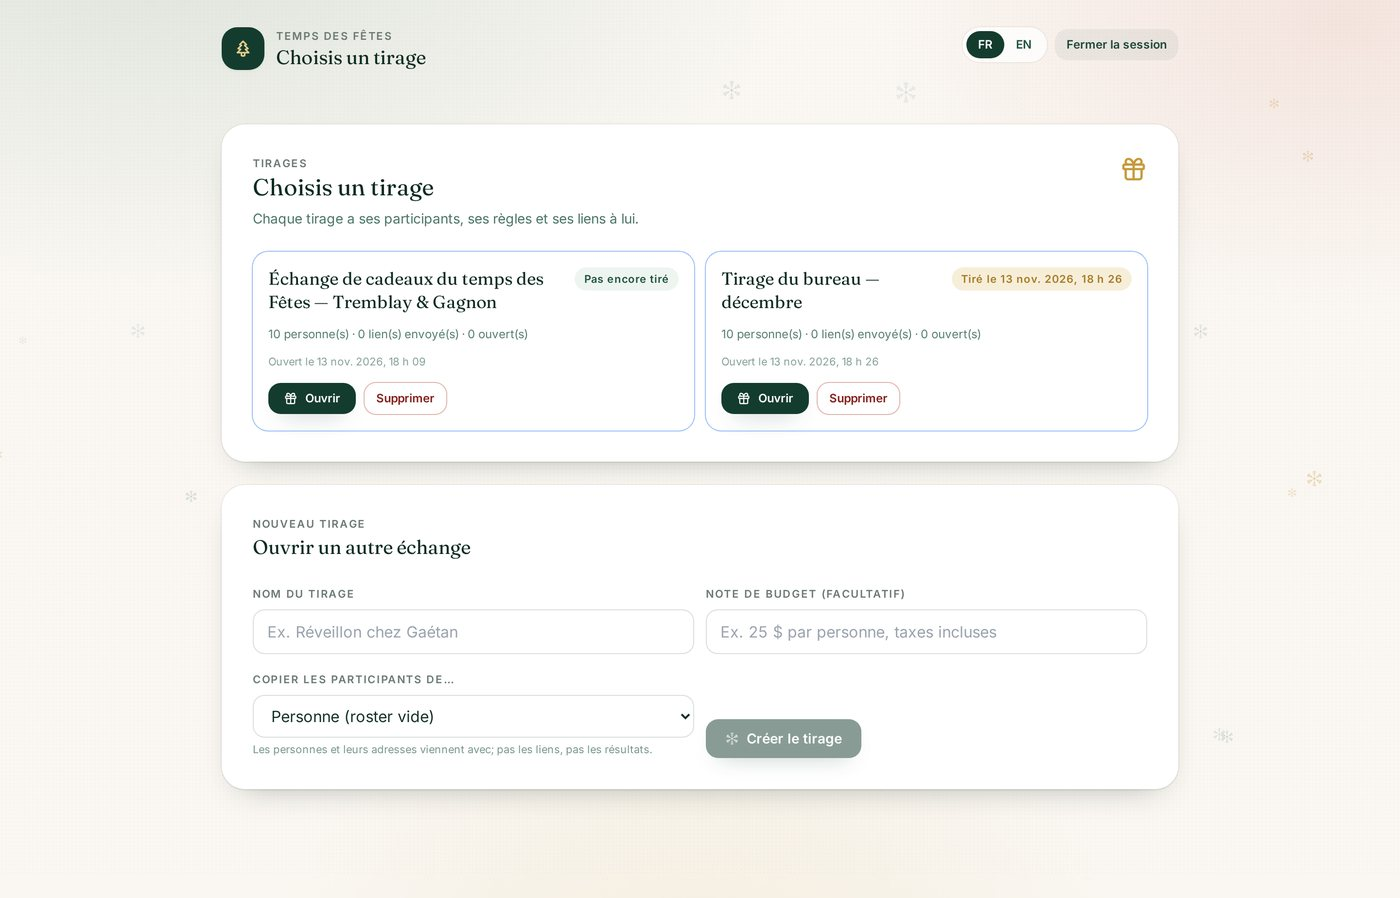
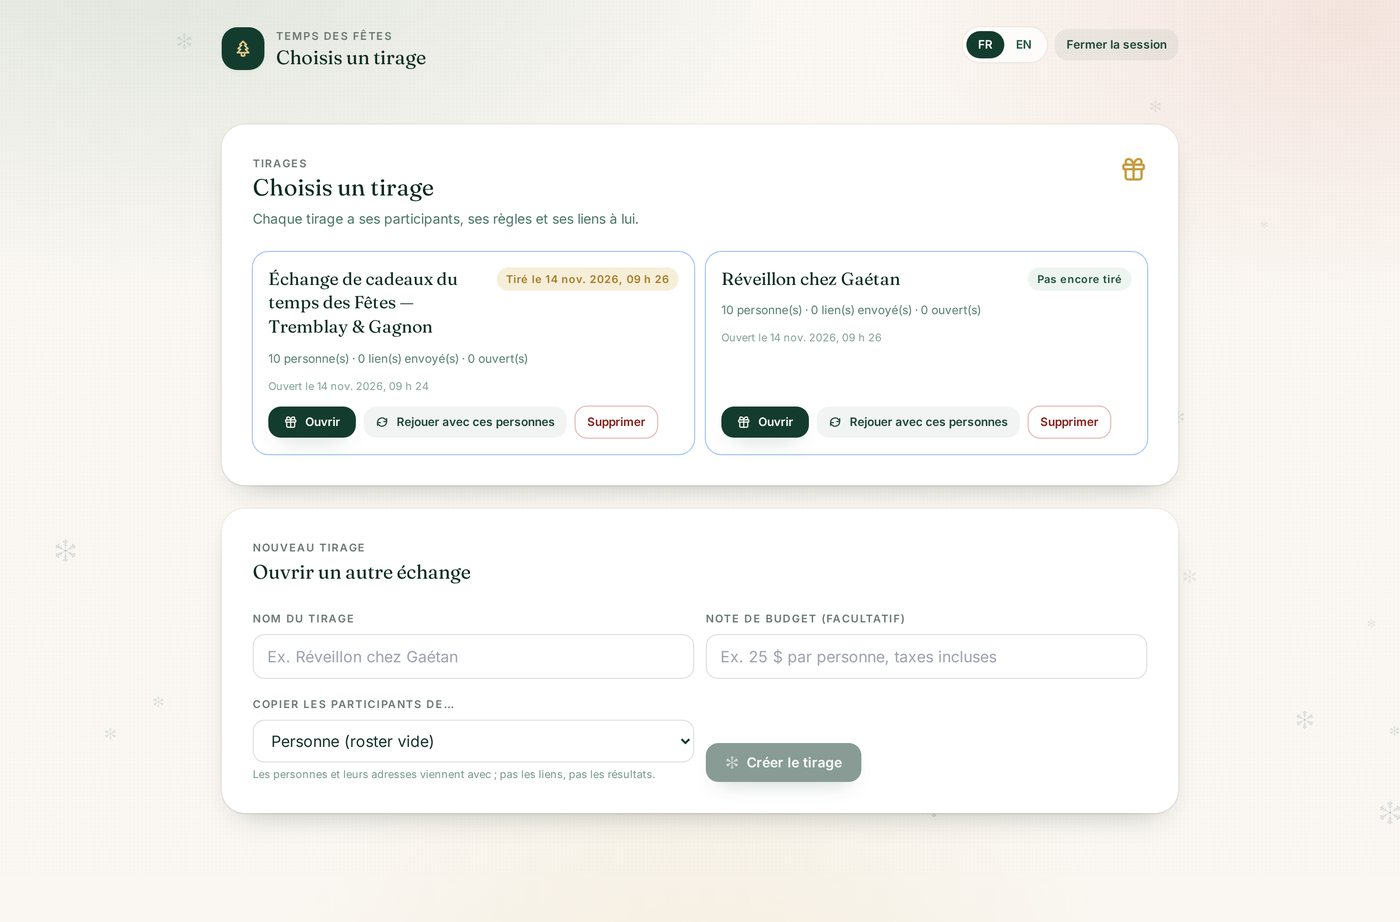
feat(draws): one click to start the next exchange from this roster
`copy_participants_from` has been on POST /api/admin/draws since the multi-draw
round, and the new-draw form has had a dropdown for it the whole time. What
nobody found was the click. Each card on the list now carries "Rejouer avec ces
personnes" / "Run again with these people".

It fills the form instead of posting, deliberately: the title is required and is
how the cards get read, so the organizer names the next event (prefilled and
selected, so "Réveillon 2025" becomes "Réveillon 2026" in one keystroke); the
source shows in the form's own select rather than being assumed; and "new links,
no results" should be seen before it happens. An empty roster gets a disabled
button with a reason, not a hollow draw.

What is worth defending about a copy is the token, so the browser check goes at
exactly that: click the button, assert the click created nothing, rename the
copy, create it, then require the new draw to hold the same four people and not
one participant token in common with its source. That is the property
create_draw's docstring has always claimed, now pinned from the UI that reaches
it. Verified end to end against a live instance; 235 tests.

Also: six English UI strings quoted with curly marks (Draw “{title}” created.)
while every French twin used straight ones. The repository quotes with straight
". Gallery: 18-draw-list.jpg re-shot with one drawn card and one
copied-and-undrawn card, so the still shows the button and what it produces.

diff --git a/static/index.html b/static/index.html
@@ -381,6 +381,17 @@
                       <svg class="w-3.5 h-3.5"><use href="#i-gift"/></svg>
                       <span x-text="t('draws.open')"></span>
                     </button>
+                    <!-- Next season, same people. The copy already existed as a dropdown in the form
+                         below; the one click per card was the missing part. It fills the form rather
+                         than creating: a draw needs a name, and "new links, no results" should be a
+                         decision the organizer sees before it happens. -->
+                    <button @click="copyIntoNewDraw(entry)" :disabled="busy || !entry.participants"
+                            :title="entry.participants ? t('draws.copyNewHelp', { n: entry.participants })
+                                                       : t('draws.copyNewEmpty')"
+                            class="btn btn-quiet px-3 py-2 text-xs">
+                      <svg class="w-3.5 h-3.5"><use href="#i-refresh"/></svg>
+                      <span x-text="t('draws.copyNew')"></span>
+                    </button>
                     <button @click="deleteDraw(entry)" :disabled="busy" class="btn btn-danger px-3 py-2 text-xs"
                             :title="entry.is_locked ? t('draws.deleteLockedHelp') : ''"
                             x-text="t('draws.delete')"></button>
@@ -391,8 +402,9 @@
           </section>
 
           <!-- New draw. Rules and roster live inside it once it exists; here the only required
-               thing is the name, because that is what the cards above are read by. -->
-          <section class="bg-white rounded-3xl ring-1 ring-black/5 shadow-card p-5 sm:p-8">
+               thing is the name, because that is what the cards above are read by. The id exists for
+               the card button above: "same people" lands the organizer here. -->
+          <section id="draw-new" class="bg-white rounded-3xl ring-1 ring-black/5 shadow-card p-5 sm:p-8">
             <p class="label" x-text="t('draws.new')"></p>
             <h2 class="font-display text-xl text-pine-800 mt-0.5" x-text="t('draws.newTitle')"></h2>
             <form @submit.prevent="createDraw()" class="mt-5 grid gap-3 sm:grid-cols-2">
@@ -1240,6 +1252,9 @@ const I18N = {
     'draws.copyField': 'Copier les participants de…',
     'draws.copyNone': 'Personne (roster vide)',
     'draws.copyHelp': 'Les personnes et leurs adresses viennent avec ; pas les liens, pas les résultats.',
+    'draws.copyNew': 'Rejouer avec ces personnes',
+    'draws.copyNewHelp': 'Pré-remplit le nouveau tirage avec les {n} personnes de celui-ci : nouveaux liens, pas de résultats.',
+    'draws.copyNewEmpty': 'Ce tirage n’a encore personne à copier.',
     'draws.create': 'Créer le tirage',
     'draws.back': 'Tous les tirages',
     'draws.opened_on': 'Ouvert le {at}',
@@ -1474,6 +1489,9 @@ const I18N = {
     'draws.copyField': 'Copy the participants from…',
     'draws.copyNone': 'Nobody (empty roster)',
     'draws.copyHelp': 'People and addresses come along; links and results do not.',
+    'draws.copyNew': 'Run again with these people',
+    'draws.copyNewHelp': 'Fills the new draw with these {n} people: new links, no results.',
+    'draws.copyNewEmpty': 'This draw has nobody to copy yet.',
     'draws.create': 'Create the draw',
     'draws.back': 'All draws',
     'draws.opened_on': 'Created {at}',
@@ -1481,9 +1499,9 @@ const I18N = {
     'draws.status_locked': 'Drawn',
     'draws.status_drawn': 'Drawn {at}',
     'draws.counts': '{people} people · {mailed} link(s) sent · {opened} opened',
-    'draws.created': 'Draw “{title}” created.',
-    'draws.deleted': 'Draw “{title}” deleted.',
-    'draws.confirmDelete': 'Delete the draw “{title}” and its {n} participant(s)? Their links will stop working.',
+    'draws.created': 'Draw "{title}" created.',
+    'draws.deleted': 'Draw "{title}" deleted.',
+    'draws.confirmDelete': 'Delete the draw "{title}" and its {n} participant(s)? Their links will stop working.',
     'err.drawGone': 'That draw no longer exists.',
     'err.pickDraw': 'Pick a draw from the list.',
 
@@ -1492,7 +1510,7 @@ const I18N = {
     'warn.childrenNeed': 'Each adult must draw {need} child(ren), but there are only {available} children in the roster.',
     'warn.childAdultsNeed': 'Each child must draw {need} adult(s), but there are only {available} adults in the roster.',
     'warn.childChildrenNeed': 'Each child must draw {need} child(ren), but there are only {available} children in the roster.',
-    'warn.noReceivers': 'No receiver is possible for the “{role}” role: nobody is left to give to.',
+    'warn.noReceivers': 'No receiver is possible for the "{role}" role: nobody is left to give to.',
     'warn.selfOnly': 'There is only one participant: nobody can draw anybody.',
     'note.title': 'Before you run the draw',
     'note.crossingsNeeded': 'Groups this big force the draw to pick inside one of them at least {n} time(s).',
@@ -1588,7 +1606,7 @@ const I18N = {
     'draw.crossingsNone': 'Nobody drew inside their own group.',
     'draw.reset': 'Reset draw',
     'draw.resetHint': 'Clears the pairings and reopens editing.',
-    'draw.confirmReset': 'Reset the draw? Pairings and “viewed” markers will be cleared.',
+    'draw.confirmReset': 'Reset the draw? Pairings and "viewed" markers will be cleared.',
     'draw.resetDone': 'Draw reset. Rules and roster are editable again.',
     'draw.forecast': '{gifts} gift(s) in total: {toAdults} to adults, {toChildren} to children',
     'draw.auto_email_done': '{sent} email(s) sent automatically.',
@@ -1598,7 +1616,7 @@ const I18N = {
     'mail.preview_sub': 'This is a template: nothing was sent and the link is a sample.',
     'mail.subject': 'Subject',
     'mail.close': 'Close',
-    'mail.sample': 'Sample name: “Aline”.',
+    'mail.sample': 'Sample name: "Aline".',
 
     'p.hello': 'Hi',
     'p.pending': 'the draw hasn’t been finalized yet. Check back soon!',
@@ -2049,6 +2067,24 @@ function giftExchange() {
       // The tab stops naming one event as soon as the organizer is back among several.
       document.title = this.t('brand');
       this.loadDraws();
+    },
+
+    /* "Same people, next year" from the card itself. The API has taken `copy_participants_from`
+       since the multi-draw round, and the form below has always had a dropdown for it — what was
+       missing was the one click, on the card, that names this draw as the source.
+
+       It fills the form instead of posting: the title is required and is how the cards get read, and
+       the consequence worth seeing before a click is that the twelve links in last year's inbox are
+       not this year's credentials. So the copy is chosen, the name is offered, and "Créer" stays the
+       thing that actually writes. */
+    copyIntoNewDraw(entry) {
+      if (!entry.participants) return;
+      this.drawDraft = { event_title: entry.event_title, budget_note: '', copy_from: String(entry.id) };
+      this.$nextTick(() => {
+        document.getElementById('draw-new')?.scrollIntoView({ behavior: 'smooth', block: 'start' });
+        const title = document.getElementById('d-title');
+        if (title) { title.focus(); title.setSelectionRange(0, title.value.length); }
+      });
     },
 
     async createDraw() {

diff --git a/tools/check_organizer_ui.py b/tools/check_organizer_ui.py
@@ -210,18 +210,53 @@ def main() -> int:
             ".filter(tr => tr.offsetParent !== null).length === 4")
         assert page.locator("#roster-table tbody tr.part:visible").count() == 4, \
             "opening a second draw changed the first one's roster"
+        drawn_tokens = set(page.evaluate(f"{DATA}.participants.map(p => p.token)"))
+
+        # ------------------------------------------------------------------ #
+        # "Rejouer avec ces personnes": the per-card shortcut to `copy_participants_from`, which is
+        # the only way an organizer is likely to reach it. Three things are worth pinning: the button
+        # only fills the form (nothing is created until "Créer"), the people come across, and the
+        # links do not — a last season's pairing must not become this season's credential.
+        # ------------------------------------------------------------------ #
+        page.get_by_role("button", name="Tous les tirages").click()
+        page.wait_for_selector("text=Choisis un tirage")
+        source_id = page.evaluate(f"{DATA}.draws.find(d => d.event_title === {first_title!r}).id")
+        page.locator("#draw-cards article", has_text=first_title).get_by_role(
+            "button", name="Rejouer avec ces personnes").click()
+        page.wait_for_function(f"Number({DATA}.drawDraft.copy_from) === {source_id}", timeout=5000)
+        assert page.locator("#d-copy").input_value() == str(source_id), \
+            "the card button did not name the source draw in the form"
+        assert page.input_value("#d-title") == first_title, \
+            "the card button offered a different name than the card it was clicked on"
+        assert cards.count() == 2, "the copy button created a draw by itself"
+
+        page.fill("#d-title", "Copie du roster")     # renaming is the normal move, and it keeps the
+        page.get_by_role("button", name="Créer le tirage").click()   # two cards tellable apart below
+        page.wait_for_selector("#roster-table")
+        page.wait_for_function(f"{DATA}.cfg.is_locked === 0")
+        assert page.locator("#roster-table tbody tr.part:visible").count() == 4, \
+            "the copy did not bring the four people across"
+        copied_tokens = set(page.evaluate(f"{DATA}.participants.map(p => p.token)"))
+        assert copied_tokens and not (copied_tokens & drawn_tokens), \
+            "a copied draw reused links that are already sitting in somebody's inbox"
 
         # This draw has been drawn, so deleting it has to be refused *and said*.
         page.get_by_role("button", name="Tous les tirages").click()
         page.wait_for_selector("text=Choisis un tirage")
+        page.wait_for_function(f"{DATA}.draws.length === 3")   # the list is a fetch, the heading is not
+        assert cards.count() == 3, "the copied draw is not on the list"
         page.once("dialog", lambda dialog: dialog.accept())
         problems.allow("status of 400")   # the refusal this check is proving
         page.locator("#draw-cards article", has_text=first_title).get_by_role("button", name="Supprimer").click()
         page.wait_for_selector("text=Le tirage est verrouillé")
-        assert cards.count() == 2, "a locked draw was deleted"
+        assert cards.count() == 3, "a locked draw was deleted"
 
         page.once("dialog", lambda dialog: dialog.accept())
         page.locator("#draw-cards article", has_text="Échange du bureau").get_by_role("button", name="Supprimer").click()
+        page.wait_for_function(f"{DATA}.draws.length === 2")
+
+        page.once("dialog", lambda dialog: dialog.accept())
+        page.locator("#draw-cards article", has_text="Copie du roster").get_by_role("button", name="Supprimer").click()
         page.wait_for_function(f"{DATA}.draws.length === 1")
 
         # ------------------------------------------------------------------ #

diff --git a/README.md b/README.md
@@ -256,7 +256,7 @@ other ([Languages](#languages-french-and-english)).
 <table>
   <tr>
     <td width="50%"><img src="docs/screenshots/01-login.jpg" alt="Organizer sign-in card on the festive background"><br><b>The door</b> — one password, rate limited and locked out after five failures; the whole organizer surface sits behind it. It lives at `/admin`, not at the hostname the family was given.</td>
-    <td width="50%"><img src="docs/screenshots/18-draw-list.jpg" alt="Draw list: two draws, one not yet drawn and one locked, plus the form that opens another"><br><b>Sign in, pick a draw</b> — the first screen is the list: one card per draw with its status, its people, how many links went out and how many were opened. Everything below is one draw at a time.</td>
+    <td width="50%"><img src="docs/screenshots/18-draw-list.jpg" alt="Draw list: one drawn and one not yet drawn, each with Open, Run again with these people and Delete, plus the empty form that opens another"><br><b>Sign in, pick a draw</b> — the first screen is the list: one card per draw with its status, its people, how many links went out and how many were opened, and a button that starts the next exchange from this same roster. Everything below is one draw at a time.</td>
   </tr>
   <tr>
     <td width="50%"><img src="docs/screenshots/02-admin-rules.jpg" alt="Rules and quotas panel with live totals and character counters"><br><b>Rules &amp; quotas</b> — live gift totals, character counters, and a warning while the admin password is still the default.</td>
@@ -315,6 +315,12 @@ event instead of dropping you on the list.
 | `POST /api/admin/draws` | `{event_title, budget_note?, copy_participants_from?}`. Copies **people** (names, households, wishlists, addresses) with **fresh tokens** and no `viewed_at` / `email_sent_at`: a link that already went out with last year's pairing must not become this year's credential. |
 | `DELETE /api/admin/draws/{id}` | Removes the draw, its roster and its pairings. A **locked** draw is refused (`400`) rather than forced: relatives are holding links that reveal it, so the sequence is *reset*, then delete. |
 | every other `/api/admin/*` | Takes `?draw_id=`. Omitted, it means "the only draw there is" — the contract every older client and the whole pre-multi-draw test suite was written against. With two draws and no `draw_id` the server refuses to guess: `400 No draw selected`. Unknown id: `404 This draw does not exist`. Empty server: `400 There is no draw yet`. |
+
+The list exposes the copy as one button per card — *Rejouer avec ces personnes* / *Run again with
+these people*. It does not post: it fills the form below with that draw named as the source and its
+title already in the name field, because the title is how the cards get read and **Créer** should stay
+the click that writes. `tools/check_organizer_ui.py` clicks it, renames the copy, and asserts the new
+draw has the same four people and not one participant token in common with the draw it came from.
 
 Participant ids are global, so the console cannot reach across either: editing, mailing or deleting
 a person who belongs to another draw answers `404`. A participant's link never carries a draw id —
@@ -450,7 +456,10 @@ answers 503 (fail closed, same posture as a blank `ADMIN_PASSWORD`).
   `with: [names]` so the console can say what really left), **Email the links** for
   everyone with an address (per-person report, skipped addresses listed not hidden, plus
   `messages` = how many mails actually left), and an opt-in `auto_email_on_draw` config switch that
-  mails *after* the draw commits — a dead Resend can never leave a half-drawn event.
+  mails *after* the draw commits — a dead Resend can never leave a half-drawn event. That mail carries
+  the **ready** copy ("The draw is done. Open your link…"), which means it reads the lock this same
+  request just wrote: the settings row is re-read after the commit, because the row in hand predates it
+  and every *other* column in it is still current.
 * **Throttling:** sends are paced by one process-wide gate — a global spacing
   (`EMAIL_SEND_INTERVAL_MS`, default 1200 ms, since Resend's free tier 429s above ~1 req/s) and
   a longer per-address spacing (`EMAIL_SAME_ADDRESS_GAP_S`, default 4 s). Since one mailbox gets one
@@ -545,7 +554,7 @@ Québec family wants.
 
 What makes "two locales" a fact rather than a claim:
 
-* One dictionary per language in `static/index.html` (`I18N.fr`, `I18N.en`) — **218 keys each** — and
+* One dictionary per language in `static/index.html` (`I18N.fr`, `I18N.en`) — **221 keys each** — and
   `tests/test_i18n.py` fails on a key that exists in one and not the other. A missing key would render
   its raw name on screen, which is exactly how a half-translated UI gets born. The same test fails when
   the README quotes a different number, because that count is the sentence a translator checks.

diff --git a/PLAN.md b/PLAN.md
@@ -1299,3 +1299,48 @@ to the flexibility and fairness sections — one viewport of a two-screen page d
 scrolls by measurement rather than with `scroll_into_view_if_needed`, which decided that an already
 partly visible section needed no scrolling and re-shot the top instead. `tests/test_docs.py` keeps the
 pair honest: a still with no README row fails, and a README row with no still fails.
+
+## The mail that said "not yet", and the one click that starts next season (addendum, 2026-11-14)
+
+**A bug, reported from the real event.** The organizer pressed *Lancer le tirage* with auto-email on.
+The draw ran, the links went out — and every mail said `Le tirage n'a pas encore été fait` while its own
+link opened straight onto the reveal.
+
+It looks like a race and is not one. `run_draw` loads the draw's row at the top of the endpoint, locks
+it, then hands **that same row** to the sender, and the sender picks its copy with
+`ready=bool(config_row["is_locked"])`. So the one send that always launches immediately after a draw
+always said "not yet" — deterministically, twelve times out of twelve. The manual paths (`Send` per
+row, `Email the links`) never had it: they call `_load_config` at send time. Reading the settings once
+and passing the row down is the right shape — it is exactly how `ready` stopped being a re-read of some
+global settings row when several draws share a server — and the trap inside that shape is the single
+column the calling endpoint just changed, in an object that looks freshly named.
+
+Fix: re-read after the commit. Test:
+`test_the_auto_send_after_a_draw_mails_the_ready_copy_not_the_pending_one`, which fails on the code as
+it was shipped. Its first half matters as much as its second: it asserts the *pending* copy on a send
+**before** the draw, because without that a green test here would only prove the flag is stuck on.
+Nothing in the data was wrong and no link was affected — the wording undersold a draw that had in fact
+finished, and a manual re-send from the console already said the right thing on the old build.
+
+**One click to run the same people again.** `copy_participants_from` has been on
+`POST /api/admin/draws` since the multi-draw round, and the new-draw form has had a dropdown for it the
+whole time; what nobody could find was the click. Each card on the list now carries
+*Rejouer avec ces personnes* / *Run again with these people*.
+
+It **fills the form, it does not post**. Three reasons, all deliberate: the title is required and is how
+the cards get read, so the organizer names the next event (the field arrives prefilled and
+selected, so `Réveillon 2025` becomes `Réveillon 2026` in one keystroke); the copy is visible in the
+form's own select rather than assumed; and "new links, no results" should be a thing seen before it
+happens. On an empty roster the button is disabled with a reason, not left to make a hollow draw.
+
+What is worth defending about the copy is the token, and the browser check does exactly that: it clicks
+the button, asserts the click created nothing, renames the copy, creates it, then requires the new draw
+to hold the **same four people** and **not one participant token in common** with the draw it came from.
+A link sitting in last season's inbox must never become this season's credential — that is the property
+`create_draw`'s docstring has always claimed, now pinned from the UI that reaches it.
+
+Small consistency fix found on the way: six English UI strings quoted with curly marks (`Draw “{title}”
+created.`) while every French twin used straight ones. The repository quotes with straight `"`.
+
+Gallery: `18-draw-list.jpg` re-shot — one drawn card, one copied-and-undrawn card, so the still shows
+both the button and what it produces. **235 tests.**
